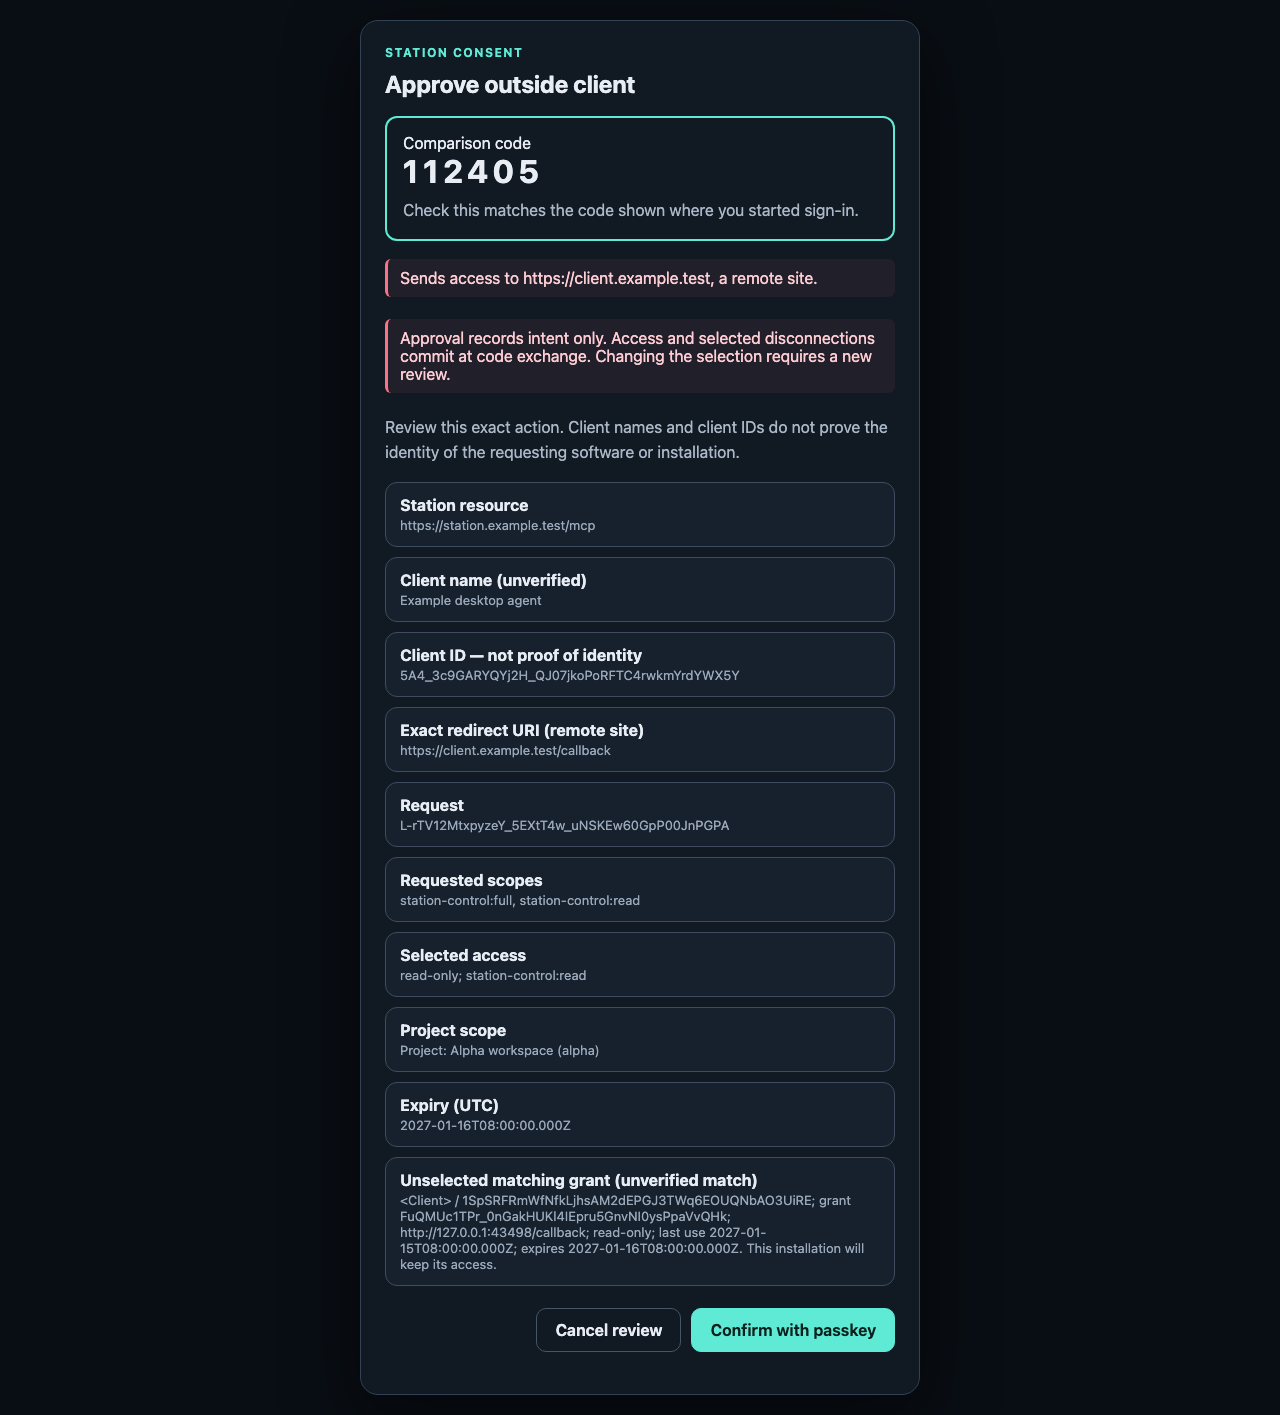
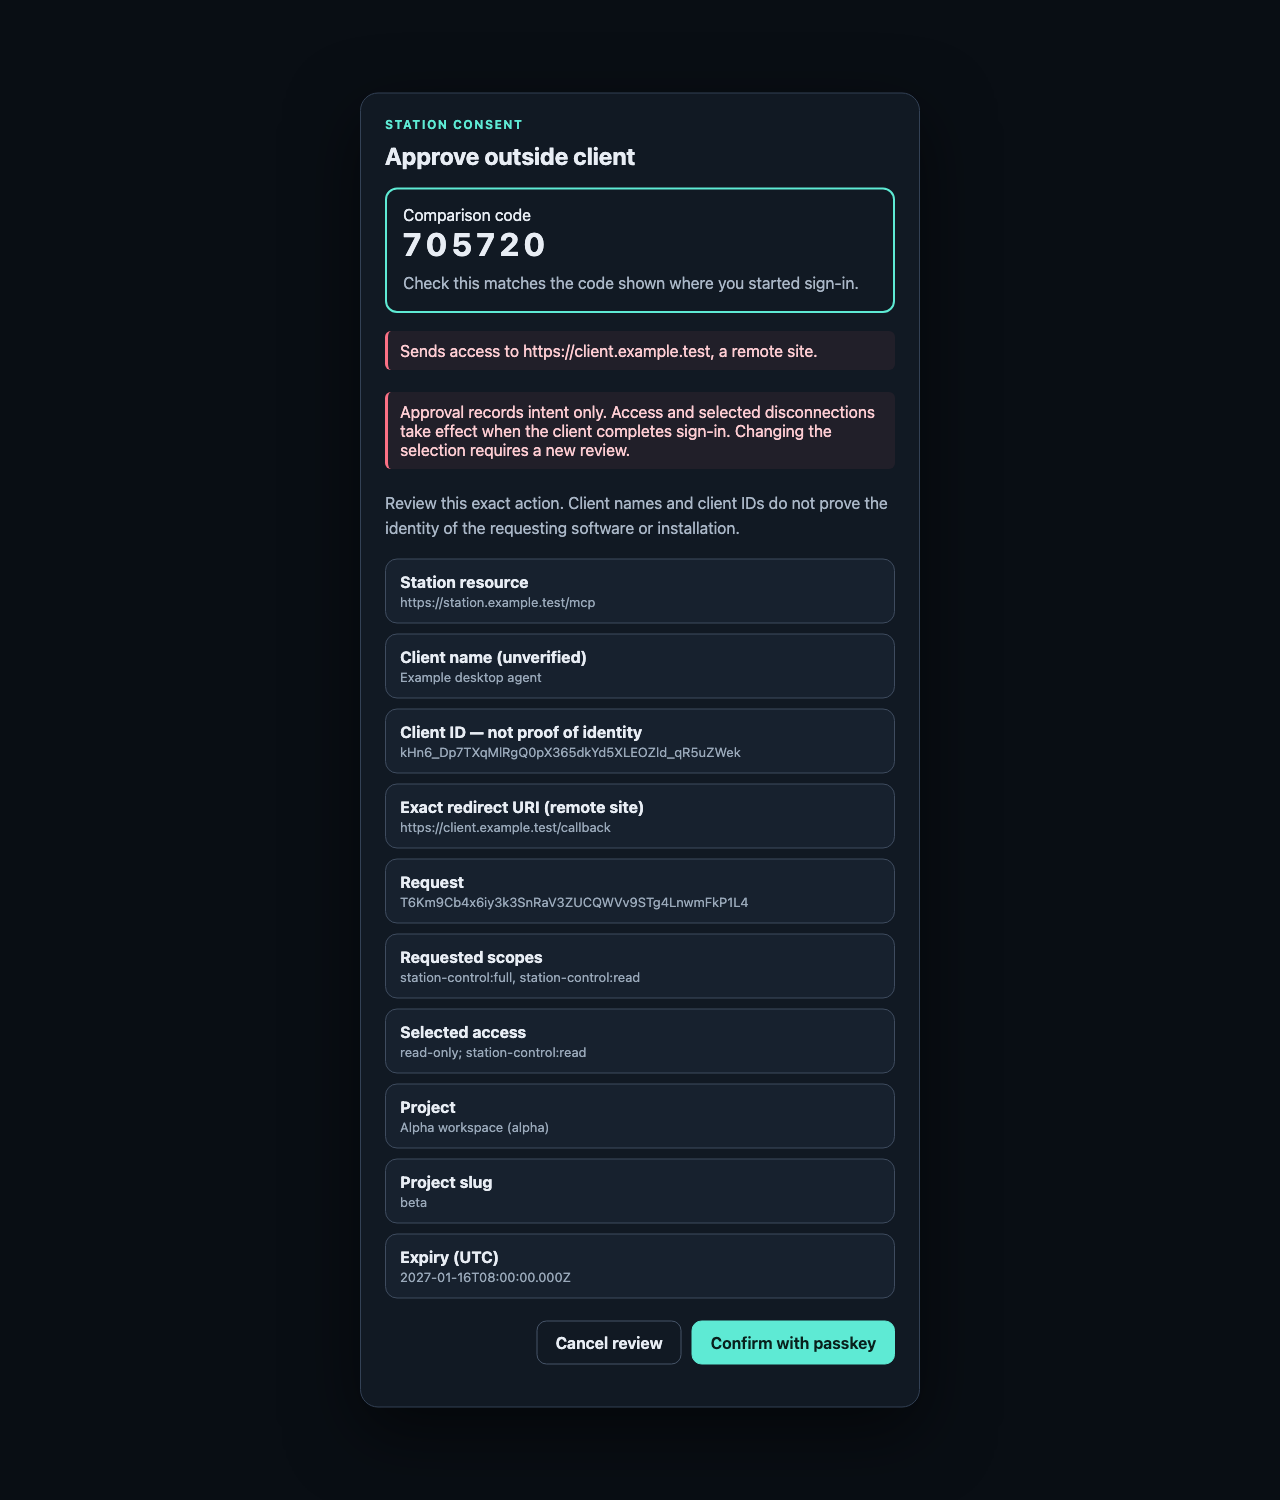
docs(mcp): retain round 2 identity and fault captures (#4115)

Changed region(s): [[0.2812, 0.0311, 0.7188, 0.964]]

diff --git a/docs/design/outside-agent-mcp-r2b-evidence.md b/docs/design/outside-agent-mcp-r2b-evidence.md
@@ -209,3 +209,70 @@ compiled release refusal and all remaining qualification limits above remain.
 **EXECUTED:** Foreground `content:excluded-names`, `typecheck:server-tests`,
 `typecheck:ui` and `typecheck:connect` passed. The reported main-branch
 `runtime-http` file-preview defect was outside this fix and was not changed.
+
+## Round 2 review fixes (2026-10-24)
+
+**EXECUTED:** Source `7c31a9fda8b3b5b9ad4687ee28444c0e417ca540` passed
+464 checks across the prior six focused suites plus `oauth-store.test.ts` and
+`oauth-concurrency.test.ts`. The consent route suite owns 72 checks. Approval
+and change reviews show `Project` and `Project slug` as separate labelled items;
+the change review also separates `Before Project` and `Before Project slug`.
+The exact name `Alpha workspace (alpha)` with slug `beta` is covered at the
+consent registrar, including the prior scope on change pages.
+
+**EXECUTED:** Client and Project names use the same sanitizer and fall back to
+`(unnamed)` unless the sanitized result contains a Unicode letter or number.
+Route cases cover combining marks U+0300/U+0301, U+1D159, private-use
+U+E000/U+F8FF, unassigned U+0378 and U+FFFF, alongside the earlier invisible-name
+cases and a non-ASCII letter/number positive control. Recovery tombstone labels
+use this same name sanitizer, with store-level retirement/recovery checks.
+The approval warning now says effects occur when the client completes sign-in,
+consistent with reload and success. Foreground excluded-name scanning and the
+server-tests, UI and Connect typecheck lanes passed.
+
+### Project-lookalike fault proof
+
+**EXECUTED:** At the clean source commit above, the eight-suite baseline passed
+464/464. Restoring name-then-slug rendering in the production management service
+made the route suite fail 14 checks with 58 still passing, exit 1. The named
+`approval keeps a Project lookalike separate from its real slug` assertion
+expected separate `Project` and `Project slug` items but received
+`Project: Alpha workspace (alpha) (beta)`. The change review and crafted-name
+Project assertions also failed. These were assertion failures, with no import,
+selection, prerequisite or timeout failure.
+
+**EXECUTED:** Restoration first verified that the source still matched the
+injected bytes, then reproduced the saved original and `git show HEAD:<path>`
+byte-for-byte. The checkout was clean before the restored route suite passed
+72/72, exit 0. Restored management-service SHA-256:
[1 lines of base64/hex data omitted]
+No injected fault was committed.
+
+### Recaptured identity reviews
+
+**EXECUTED:** The collaborative browser rendered actual registrar HTML served
+unchanged by a private loopback snapshot server on port 43492. The
+[390px approval](../learn/media/outside-agent-r2b-approve.png),
+[1280px approval](../learn/media/outside-agent-r2b-approve-desktop.png) and
+[390px change](../learn/media/outside-agent-r2b-change.png) were recaptured from
+the source commit above and each saved image was opened and visually inspected.
+Both Project names in the change fixture are `Alpha workspace (alpha)`;
+the independently labelled slugs are `alpha` before and `beta` after.
+The approval fixture also selects `beta`, replacing the prior supersession
+example with the exact lookalike. Narrow pages measured
+`scrollWidth = innerWidth = 390`, with readable wrapping and 44px action controls.
+Snapshots preserve the complete page at the named CSS widths; these are render
+receipts, not browser passkey assertions or a real OAuth sign-in.
+The other seven images retain their round 1 bytes and captured revisions as
+historical examples, including their older combined Project labels where shown.
+
+**EXECUTED:** The single
+`HTTP data-change effects: POST /api/projects/fixture/file-preview/visual (200)`
+case failed on fetched `origin/main` at
+`993a6f0a7c004ab9eba2d6277b3248eafd86e8ce`: it emitted `data:changed` with the
+`projects` key. Main was not merged and the #4118 defect was not changed.
+
+**REASONED:** These are presentation and shared label changes only. Canonical
+Project IDs, reviewed fingerprints and authority remain unchanged. The guarded
+404 distinction tracked in #4125 is outside this round. The compiled release
+refusal and all R3–R6 qualification limits above remain.
